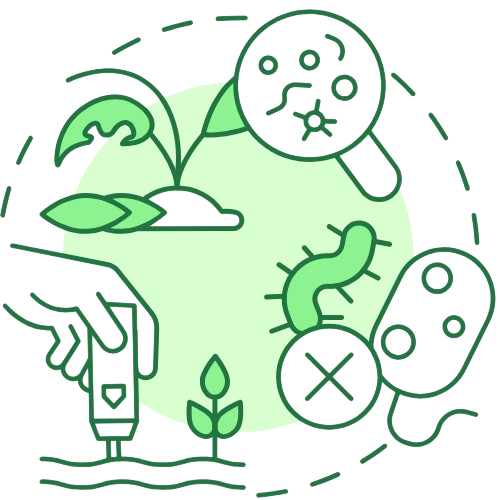
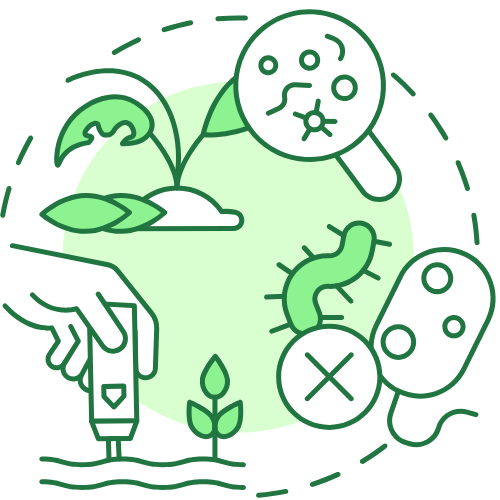
Feat: white color

diff --git a/src/app/intro/intro.css b/src/app/intro/intro.css
@@ -1,5 +1,5 @@
 .intro-slider-container {   
-  background-color: #00C72B;   
+  background-color: #ffffff;   
   min-height: 100vh;   
   display: flex;   
   flex-direction: column;   
@@ -59,7 +59,7 @@
 }  
 
 .text-content h2 {   
-  color: white;   
+  color: #00C72B;   
   font-size: 1.5rem;   
   font-weight: 600;   
   line-height: 1.4;   
@@ -78,7 +78,7 @@
   width: 12px;   
   height: 12px;   
   border-radius: 50%;   
-  border: 2px solid white;   
+  border: 2px solid #213526;  
   background-color: transparent;   
   margin: 0 8px;   
   opacity: 0.6;   
@@ -86,7 +86,7 @@
 }  
 
 .carousel-indicators button.active {   
-  background-color: white;   
+  background-color: #00C72B;  
   opacity: 1;   
   transform: scale(1.2); 
 }  
